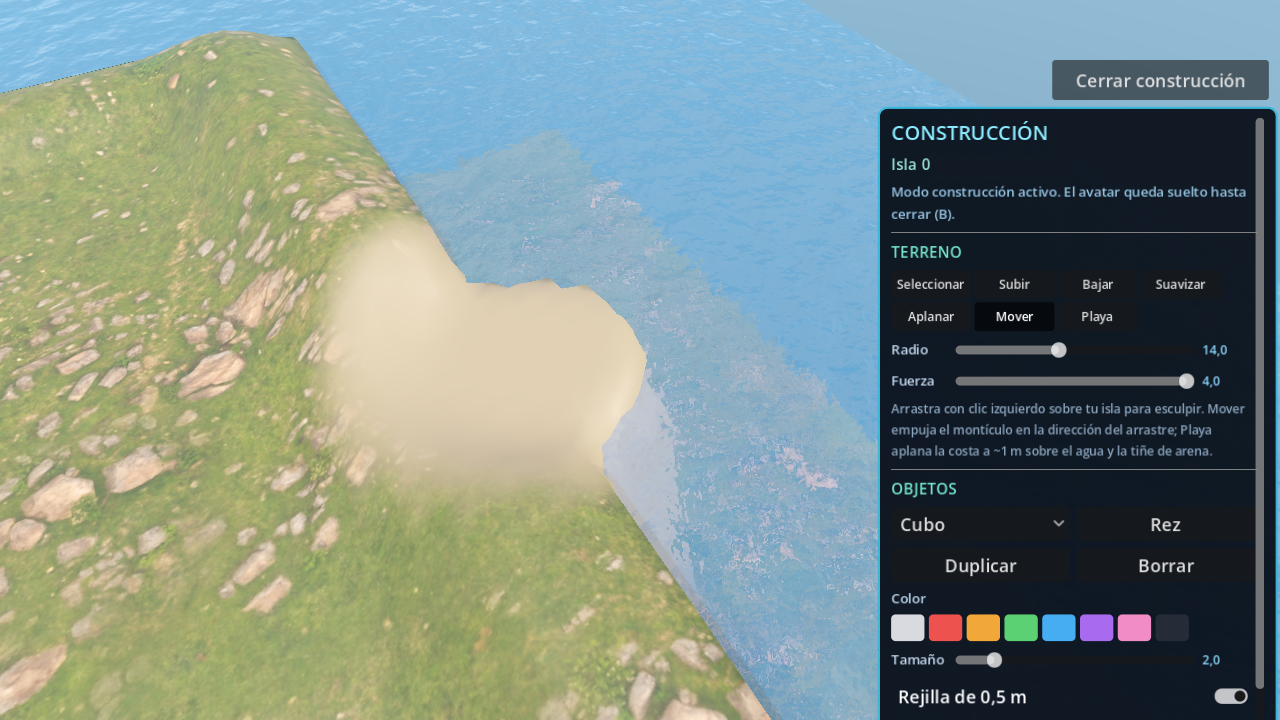
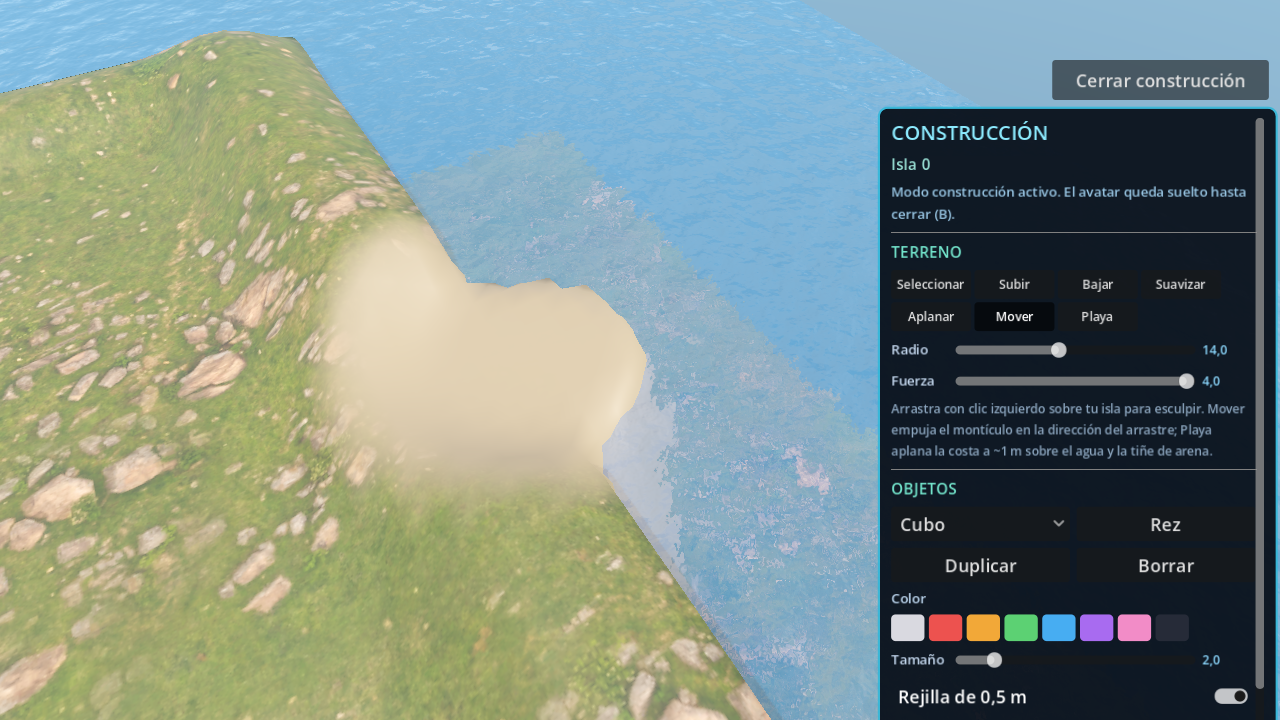
docs: refrescar las capturas de construcción del README

diff --git a/README.md b/README.md
@@ -185,6 +185,10 @@ El riesgo es el **ataque Sybil**: una sola persona crea 1.000 cuentas para manip
 
 El jugador ya puede **esculpir el terreno** de su isla con seis herramientas (subir, bajar, suavizar, aplanar, mover y playa) y **crear y editar prims** (cubo, esfera, cilindro, cono y toro) con color, escala, rotación, duplicado y borrado. La edición está aislada por isla y el pincel «mover» transporta el color de la arena junto con la altura. Solo el dueño de la isla edita; el estado se guarda en `user://construccion/` y se sincroniza por el túnel durante la sesión. La implementación está validada en headless (128/128) y con capturas visuales (26/26), **sin prueba real entre dos máquinas**. Queda **Planificado**: deshacer/rehacer, selección múltiple, física de prims, edición del aspecto de la isla y persistencia en un servidor más allá de la sesión. **Estado: Implementado, sin prueba real entre dos máquinas.**
 
+| Vista general de la isla | Pincel Aplanar | Playa desde la costa |
+|:---:|:---:|:---:|
+| [![Vista general de la isla antes de editar](VersionDe_sesion/CONTRRF/TLLDCD/src/STM_DOC/docs/img/10_construccion_isla.png)](VersionDe_sesion/CONTRRF/TLLDCD/src/STM_DOC/docs/img/10_construccion_isla.png) | [![Pincel Aplanar con su disco de influencia sobre el terreno](VersionDe_sesion/CONTRRF/TLLDCD/src/STM_DOC/docs/img/11_construccion_aplanar.png)](VersionDe_sesion/CONTRRF/TLLDCD/src/STM_DOC/docs/img/11_construccion_aplanar.png) | [![Playa aplanada y teñida de arena vista desde la costa](VersionDe_sesion/CONTRRF/TLLDCD/src/STM_DOC/docs/img/12_construccion_playa_costa.png)](VersionDe_sesion/CONTRRF/TLLDCD/src/STM_DOC/docs/img/12_construccion_playa_costa.png) |
+
 ### 3.5 Chat de texto, voz y webcam
 
 El visor incorpora **chat de texto** con relay WebSocket propio, **amigos y chat privado**, y **captura de voz y webcam** que se reenvía a los demás participantes de la sesión. El selftest del chat supera 24/24 comprobaciones; **no** se ha probado con dos visores en máquinas distintas. Queda **Planificado**: autenticación del chat, cola offline, historial privado persistente, selector de micrófono/cámara y reproducción de vídeo/audio en el mundo 3D. LucIA conserva sus módulos de voz en Python (`src/SBSTM/voice_engine.py`, `voice_helpers.py`), que son parte del subsistema cognitivo y no del canal entre jugadores. **Estado: Implementado, sin prueba real entre dos máquinas.**
@@ -193,7 +197,7 @@ El visor incorpora **chat de texto** con relay WebSocket propio, **amigos y chat
 
 ## 4. Mapa del repositorio
 
-El repositorio versiona **846 ficheros** con **278.210.325 B (≈265 MiB)** de contenido. Por lenguajes: **69.674 líneas de Python** (235 ficheros), **20.395 líneas de C#** (73), **16.925 líneas de GDScript** (93, incluidos los scripts de escenas y herramientas) y **2.962 líneas de XAML** (15).
+El repositorio versiona **849 ficheros** con **280.271.173 B (≈267 MiB)** de contenido. Por lenguajes: **69.674 líneas de Python** (235 ficheros), **20.395 líneas de C#** (73), **16.925 líneas de GDScript** (93, incluidos los scripts de escenas y herramientas) y **2.962 líneas de XAML** (15).
 
 ### Modelo de versionado
 
@@ -532,7 +536,7 @@ Reconstruirlos en otra máquina exige: 1) descargar Godot 4.7.2, y 2) abrir el p
 | Exe publicado (v2.5.9) | 788.201.343 B (≈751,7 MiB) |
 | PCK embebido | 537.811.448 B (512,9 MiB) |
 | Extracción en disco por versión | 718.662.713 B (≈685,4 MiB) |
-| Contenido versionado del repositorio | 846 ficheros, 278.210.325 B (≈265 MiB) |
+| Contenido versionado del repositorio | 849 ficheros, 280.271.173 B (≈267 MiB) |
 
 ### Pipeline completo
 
@@ -720,7 +724,7 @@ Se dejaron de versionar los artefactos de ejecución de LucIA que quedaban en un
 
 ### Tamaño y ramas
 
-- Contenido versionado: **846 ficheros, 278.210.325 B (≈265 MiB)**.
+- Contenido versionado: **849 ficheros, 280.271.173 B (≈267 MiB)**.
 - Ramas remotas: `main` (integración) más una familia de ramas de trabajo por asistente (`DevAntigravityIA`, `DevChatGPTIA`, `DevCursorIA`, `DevDeepSeekHarnessIA`, `DevOpencodeIA`, `DevQoderIA`, `DevTraeIA`).
 
 ### Ficheros de configuración de agentes
